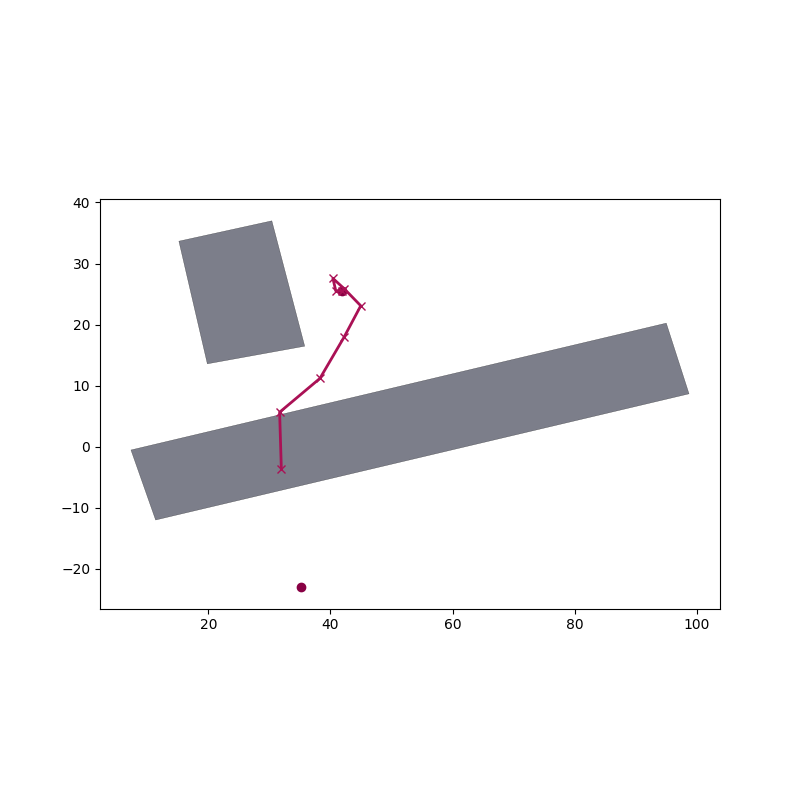
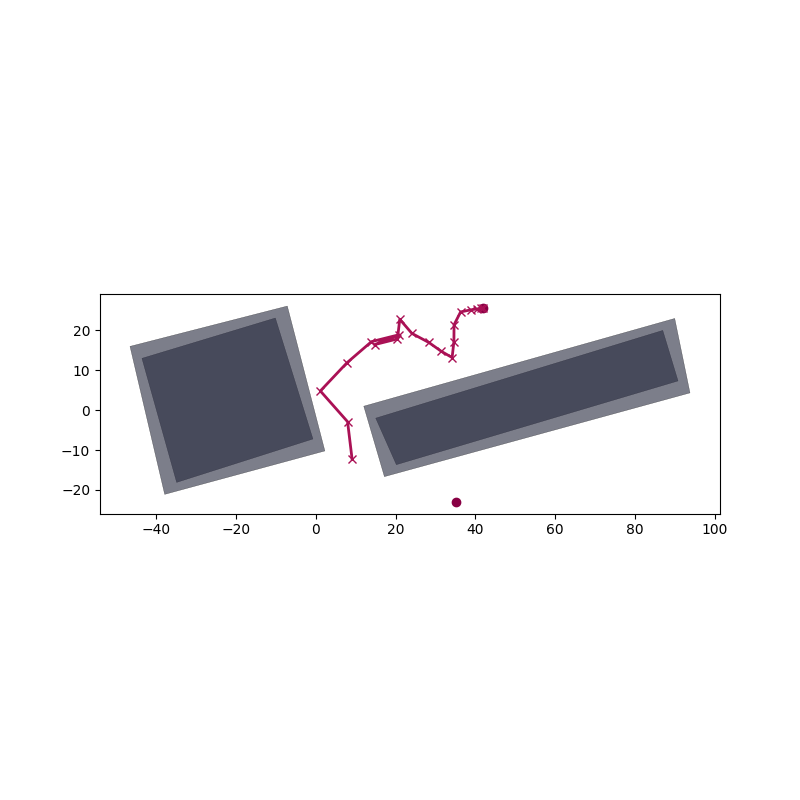
ga upgrade

diff --git a/drone_ws/src/planners/scripts/genetic_pathplanning/ros_genetic_server.py b/drone_ws/src/planners/scripts/genetic_pathplanning/ros_genetic_server.py
@@ -1,126 +1,10 @@
-import argparse
-
-from visualization import plot_map
-from genetic_v2_3 import Subject, Genetic 
-from data_definitions import Mapa, CartesianPoint, Conversor, GeoPoint
-
-from file_manipulation import read_mapa, write_mavros, upload_mapa
-
-## ENTRADA
-
-# Parâmetros recebidos (arquivo .srv)
-origin_lat       = -22.002237
-origin_long      = -47.932546
-origin_alt       = 13
-destination_lat  = -22.002674 
-destination_long = -47.932608
-destination_alt  = 15
-
-# P0
-# destination_lat  = -22.002278 
-# destination_long = -47.932099
-# destination_alt  = 20
-
-# P1
-# destination_lat  = -22.002396 
-# destination_long = -47.932063
-# destination_alt  = 20
-
-
-mapa_id          = 0
-
-# Leitura do arquvio em DATA
-PATH = 'XXX/mapa.json' #Ubuntu Veronica
-#PATH = '/home/gustavosouza/Documents/Per/path-planning/data/mapa.json' #Ubuntu Gustavo
-#PATH = r'../../data' #Windows
-geo_home, _, _, areas_n = read_mapa(PATH, mapa_id)
-#geo_home, _, _, areas_n = upload_mapa(mapa_file, mapa_id)
-
-cart_origin      = Conversor.geo_to_cart(GeoPoint(origin_lat, origin_long, origin_alt), geo_home)
-cart_destination = Conversor.geo_to_cart(GeoPoint(destination_lat, destination_long, destination_alt), geo_home)
-
-
-mapa = Mapa(cart_origin, cart_destination, areas_n, inflation_rate=1)
-
-
-
-## EXECUÇÃO DO AG
-ag_teste = Genetic(Subject, mapa,
-        # Genetic
-        taxa_cross=0.5,
-        population_size=100,
-        C_d=1000,
-        C_obs=10000,
-        C_con=1000,
-        C_cur=1000,
-        C_t=10,
-        max_exec_time=300,
-        #Subject,
-        T_min=10,
-        T_max=40,
-        mutation_prob=0.7,
-        px0=cart_origin.x,
-        py0=cart_origin.y
-)
-
-
-best = ag_teste.run(info=True)
-
-# Melhor rota encontrada : WPs em cartesiano
-cart_points = best.get_route()
-
-# Melhor rota encontrada : WPs em geográfico
-geo_points = [ Conversor.cart_to_geo(CartesianPoint(cart_point[0], cart_point[1]), geo_home) for cart_point in cart_points ]
-
-
-# Visualização do Mapa usado, com a rota do melhor de todos
-areas = [ area for area in itertools.chain(mapa.areas_n, mapa.areas_n_inf) ]
-tipos = [ 'n' for _ in range(len(areas))]
-plot_map(
-    areas=areas,            # Mapa usado
-    labels=tipos,            # Tipo do mapa {'n','p','b'} <- Não afeta o genético, só muda a visualização
-    origem=mapa.origin,      # waypoint de origem
-    destino=mapa.destination, # waypoint de destino
-    waypoints=best.get_route(), # rota do melhor de todos
-)
-
-## SAÍDA
-
-output_filename = '/mnt/c/Projetos/path-planning/algorithms/ros_genetic/path_from_ga_output.wp'
-write_mavros(output_filename, geo_points)
-
-
-
-
-
-
-
-
-
-
-
-
-
-
-
-
-
-
-
-
-
-
-
-
-
-
 # Versão do Algoritmo Genético: v2_3
 
 import rospy
 from planners.srv import *
 
 import argparse
-
+import itertools
 
 from genetic_v2_3 import Subject, Genetic
 from data_definitions import Mapa, CartesianPoint, Conversor, GeoPoint
@@ -147,17 +31,17 @@ def run_genetic(req):
 
 
     # Leitura do arquvio em DATA
-    PATH = '/home/vannini/Data/mapa.json' #Ubuntu Veronica
+    PATH = '/home/vannini/drone_arch/Data/mapa.json' #Ubuntu Veronica
     #PATH = '/home/gustavosouza/Documents/Per/path-planning/data/mapa.json' #Ubuntu Gustavo
     #PATH = r'../../data' #Windows
-    geo_home, _, _, areas_n = read_mapa(PATH, mapa_id)
+    geo_home, _, _, areas_n = read_mapa(PATH, map_id)
     #geo_home, _, _, areas_n = upload_mapa(mapa_file, mapa_id)
 
     cart_origin      = Conversor.geo_to_cart(GeoPoint(origin_lat, origin_long, origin_alt), geo_home)
     cart_destination = Conversor.geo_to_cart(GeoPoint(destination_lat, destination_long, destination_alt), geo_home)
 
 
-    mapa = Mapa(cart_origin, cart_destination, areas_n, inflation_rate=1)
+    mapa = Mapa(cart_origin, cart_destination, areas_n, inflation_rate=3)
 
 
 
@@ -168,10 +52,10 @@ def run_genetic(req):
             population_size=100,
             C_d=1000,
             C_obs=10000,
-            C_con=1000,
-            C_cur=1000,
-            C_t=10,
-            max_exec_time=300,
+            C_con=100,
+            C_cur=500,
+            C_t=0,
+            max_exec_time= 5,
             #Subject,
             T_min=10,
             T_max=40,
@@ -206,7 +90,7 @@ def run_genetic(req):
     ## /Interface Gráfica
 
     # output_filename = '/mnt/c/Projetos/path-planning/algorithms/ros_genetic/path_from_ga_output.wp' # Ubuntu Gustavo    
-    output_filename = '/home/vannini/Missions/path_from_ga_output.wp' # Ubuntu Veronica
+    output_filename = '/home/vannini/drone_arch/Missions/path_from_ga_output.waypoints' # Ubuntu Veronica
     write_mavros(output_filename, geo_points)
 
 

diff --git a/drone_ws/src/planners/scripts/genetic_pathplanning/teste_conversor.py b/drone_ws/src/planners/scripts/genetic_pathplanning/teste_conversor.py
@@ -1,0 +1,61 @@
+
+import argparse
+
+import matplotlib.pyplot as plt 
+
+from data_definitions import Mapa, CartesianPoint, Conversor, GeoPoint
+
+
+
+## obstacle (ICMC)
+#-22.006045,-47.896007
+#-22.006045,-47.895561
+#-22.007557, -47.895561
+#-22.007557,,-47.896007
+
+icmc = [GeoPoint(-22.006045, -47.896673, 10), GeoPoint(-22.005787, -47.896007,10), GeoPoint(-22.007557, -47.893121,10), GeoPoint(-22.007861, -47.895561,10)]
+
+icmc1 = [GeoPoint(-22.006045,-47.896007, 10), GeoPoint(-22.006045,-47.895561,10), GeoPoint(-22.007557, -47.895561,10), GeoPoint(-22.007557,-47.896007,10)]
+
+
+point_in_obstacle = GeoPoint(-22.007252, -47.894711, 10)
+
+point_out_obstacle = GeoPoint(-22.006484, -47.896854, 10)
+
+geo_home = GeoPoint(-22.006218, -47.898374,0)
+cart_icmc = []
+for point in icmc:
+    cart_icmc.append(Conversor.geo_to_cart(point, geo_home))
+
+print(cart_icmc)
+
+cart_in = Conversor.geo_to_cart(point_in_obstacle, geo_home)
+cart_out = Conversor.geo_to_cart(point_out_obstacle, geo_home)
+
+
+# x axis values 
+x = [cart_icmc[0].x, cart_icmc[1].x, cart_icmc[2].x, cart_icmc[3].x,cart_icmc[0].x] 
+# corresponding y axis values 
+y = [cart_icmc[0].y, cart_icmc[1].y, cart_icmc[2].y, cart_icmc[3].y, cart_icmc[0].y] 
+  
+print(x)
+print(y)
+# plotting the points  
+plt.plot(x,y) 
+
+plt.scatter(cart_in.x, cart_in.y, label= "stars", color= "blue",  
+            marker= "*", s=30) 
+plt.scatter(cart_out.x, cart_out.y, label= "stars", color= "green",  
+            marker= "*", s=30) 
+  
+# naming the x axis 
+plt.xlabel('x - axis') 
+# naming the y axis 
+plt.ylabel('y - axis') 
+  
+# giving a title to my graph 
+plt.title('My first graph!') 
+  
+# function to show the plot 
+plt.show()
+

diff --git a/drone_ws/src/planners/scripts/genetic_pathplanning/file_manipulation.py b/drone_ws/src/planners/scripts/genetic_pathplanning/file_manipulation.py
@@ -45,6 +45,7 @@ def upload_mapa(mapa_file, mapa_id):
             geo_points.append(Conversor.geo_to_cart(
                 GeoPoint(geo_point[1], geo_point[0], geo_point[2])
                 , geo_home))
+        geo_points.append(geo_points[0])
         areas_nao_navegaveis.append(geo_points)
 
 
@@ -70,6 +71,7 @@ def read_mapa(mapa_filename, mapa_id):
                 geo_points.append(Conversor.geo_to_cart(
                     GeoPoint(geo_point[1], geo_point[0], geo_point[2])
                     , geo_home))
+            geo_points.append(geo_points[0])
             areas_nao_navegaveis.append(geo_points)
 
 
@@ -96,8 +98,8 @@ def write_mavros(filename, geo_points): #throws FileNotFoundException
                 str(i) + '\t'
                 + str(current_waypoint) + '\t' 
                 + '3\t16\t3\t0\t0\t0\t'
-                + '{:10.8f}'.format(geo_point.latitude) + '\t' 
-                + '{:10.8f}'.format(geo_point.longitude) + '\t'
+                + '{:10.8f}'.format(geo_point.longitude) + '\t' 
+                + '{:10.8f}'.format(geo_point.latitude) + '\t'
                 + '{:10.8f}'.format(geo_point.altitude) + '\t'
                 + '1'
                 + '\n'

diff --git a/drone_ws/src/planners/scripts/genetic_pathplanning/test.py b/drone_ws/src/planners/scripts/genetic_pathplanning/test.py
@@ -19,7 +19,8 @@ destination_alt  = 15
 mapa_id          = 0
 
 # Leitura do arquvio em DATA
-geo_home, _, _, areas_n = read_mapa('/mnt/c/Projetos/path-planning/data/mapa.json', mapa_id)
+geo_home, _, _, areas_n = read_mapa('/home/vannini/drone_arch/Data/mapa.json', mapa_id)
+print(geo_home)
 
 cart_origin      = Conversor.geo_to_cart(GeoPoint(origin_lat, origin_long, origin_alt), geo_home)
 cart_destination = Conversor.geo_to_cart(GeoPoint(destination_lat, destination_long, destination_alt), geo_home)

diff --git a/drone_ws/src/planners/scripts/genetic_pathplanning/visualization.py b/drone_ws/src/planners/scripts/genetic_pathplanning/visualization.py
@@ -5,9 +5,9 @@ import matplotlib.pyplot as plt
 import matplotlib.patches as patches
 from matplotlib.path import Path
 
-import plotly.graph_objects as go
+#import plotly.graph_objects as go
 
-from sklearn import preprocessing
+#from sklearn import preprocessing
 
 
 cor_area_nn    = '#25283d' # Yankees Blue

diff --git a/drone_ws/src/planners/scripts/genetic_pathplanning/genetic_v2_3.py b/drone_ws/src/planners/scripts/genetic_pathplanning/genetic_v2_3.py
@@ -348,7 +348,7 @@ class Subject():
 
 
         
-      class Genetic():
+class Genetic():
     
     def __init__(
         self, 
